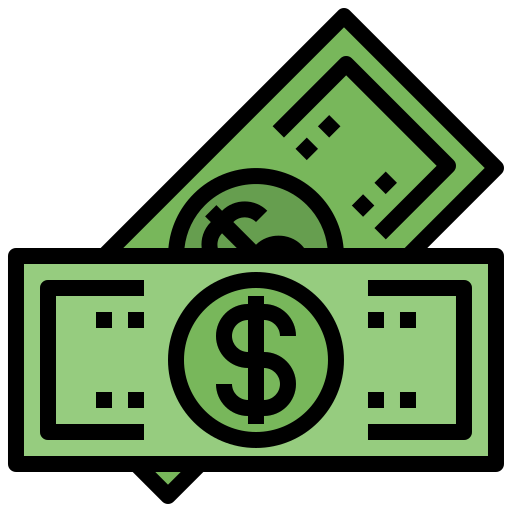
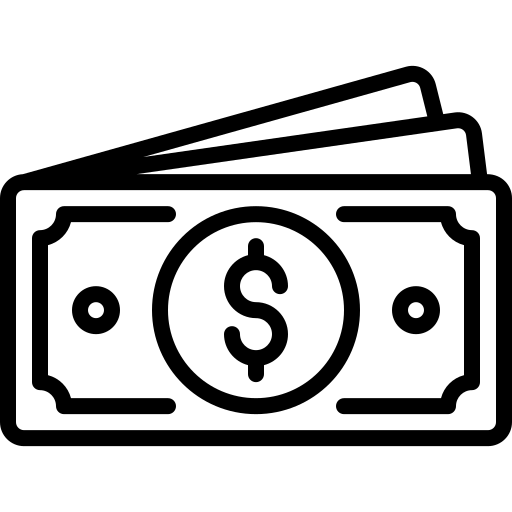
fix: dashboard by user

diff --git a/client/src/app/dashboard/home/home.component.ts b/client/src/app/dashboard/home/home.component.ts
@@ -4,6 +4,7 @@ import { BaseChartDirective } from 'ng2-charts';
 import { ChartData, ChartType, ChartOptions } from 'chart.js';
 import { TransactionService } from '../../services/transaction.service';
 import { ProductService } from '../../services/product-services.service';
+import { AuthService } from '../../services/auth.service';
 import { Transaction } from '../../interfaces/financeInterface';
 import { Product } from '../../interfaces/productInterface';
 import {
@@ -22,7 +23,6 @@ import {
   BarElement,
 } from 'chart.js';
 
-// Registra todos os elementos necessários
 Chart.register(
   ArcElement,
   PieController,
@@ -37,7 +37,6 @@ Chart.register(
   LineElement,
   BarElement
 );
-
 
 @Component({
   selector: 'app-home',
@@ -56,33 +55,23 @@ export class HomeComponent implements OnInit {
   isLoading = true;
   errorMessage = '';
 
-  // Gráfico de pizza (distribuição por categoria)
   public pieChartType: ChartType = 'pie';
   public pieChartData: ChartData<'pie', number[], string> = {
     labels: [],
     datasets: [
       {
         data: [],
-        backgroundColor: [
-          '#000000',
-          '#555555',
-          '#999999',
-          '#222222',
-          '#444444',
-        ],
+        backgroundColor: ['#000000', '#555555', '#999999', '#222222', '#444444'],
       },
     ],
   };
   public pieChartOptions: ChartOptions = {
     responsive: true,
     plugins: {
-      legend: {
-        labels: { color: '#000' },
-      },
+      legend: { labels: { color: '#000' } },
     },
   };
 
-  // Gráfico de linha (transações ao longo do tempo)
   public lineChartType: ChartType = 'line';
   public lineChartData: ChartData<'line'> = {
     labels: [],
@@ -108,7 +97,6 @@ export class HomeComponent implements OnInit {
     },
   };
 
-  // Gráfico de barras (produtos por categoria)
   public barChartType: ChartType = 'bar';
   public barChartData: ChartData<'bar'> = {
     labels: [],
@@ -133,18 +121,25 @@ export class HomeComponent implements OnInit {
 
   constructor(
     private transactionService: TransactionService,
-    private productService: ProductService
+    private productService: ProductService,
+    private authService: AuthService
   ) {}
 
   ngOnInit(): void {
-    this.loadDashboardData();
+    const userId = this.authService.getUserId();
+    if (!userId) {
+      this.errorMessage = 'Usuário não autenticado.';
+      this.isLoading = false;
+      return;
+    }
+    this.loadDashboardData(userId);
   }
 
-  loadDashboardData(): void {
+  loadDashboardData(userId: string): void {
     this.isLoading = true;
     this.errorMessage = '';
 
-    this.transactionService.getTransactions().subscribe({
+    this.transactionService.getTransactionsByUser(userId).subscribe({
       next: (trans) => {
         this.transactions = trans;
         this.totalTransactionAmount = trans.reduce(
@@ -152,17 +147,14 @@ export class HomeComponent implements OnInit {
           0
         );
 
-        // Gráfico de pizza (por categoria)
         const categoryTotals: Record<string, number> = {};
         const transactionsByDate: Record<string, number> = {};
         trans.forEach((t) => {
-          // Pizza
           if (t.category) {
             categoryTotals[t.category] =
               (categoryTotals[t.category] || 0) + (t.amount || 0);
           }
 
-          // Linha
           const date = new Date(t.date).toLocaleDateString();
           transactionsByDate[date] =
             (transactionsByDate[date] || 0) + (t.amount || 0);
@@ -174,14 +166,11 @@ export class HomeComponent implements OnInit {
         this.lineChartData.labels = Object.keys(transactionsByDate);
         this.lineChartData.datasets[0].data = Object.values(transactionsByDate);
 
-        // Carrega produtos
-        this.productService.getAll().subscribe({
+        this.productService.getProductsByUser(userId).subscribe({
           next: (prod) => {
             this.products = prod;
             this.totalProductsCount = prod.length;
 
-            // Gráfico de barras (produtos por categoria)
-            // Gráfico de barras (produtos por tipo)
             const productTypeCount: Record<string, number> = {
               PRODUCT: 0,
               SERVICE: 0,

diff --git a/client/src/app/layout-base/header/header.component.html b/client/src/app/layout-base/header/header.component.html
@@ -1,7 +1,9 @@
 <header class="header">
-    <div class="logo">GLRMH</div>
+    <div class="logo">GLRMH  <img src="/client/public/DINHEIRO.png" alt=""> </div>
+   
   
     <nav class="nav">
+      
       <a routerLink="/dashboard/perfil" routerLinkActive="active">Perfil</a>
       <a routerLink="/dashboard/configuracoes" routerLinkActive="active">Configurações</a>
       <a routerLink="/dashboard/sobre" routerLinkActive="active">Sobre</a>
